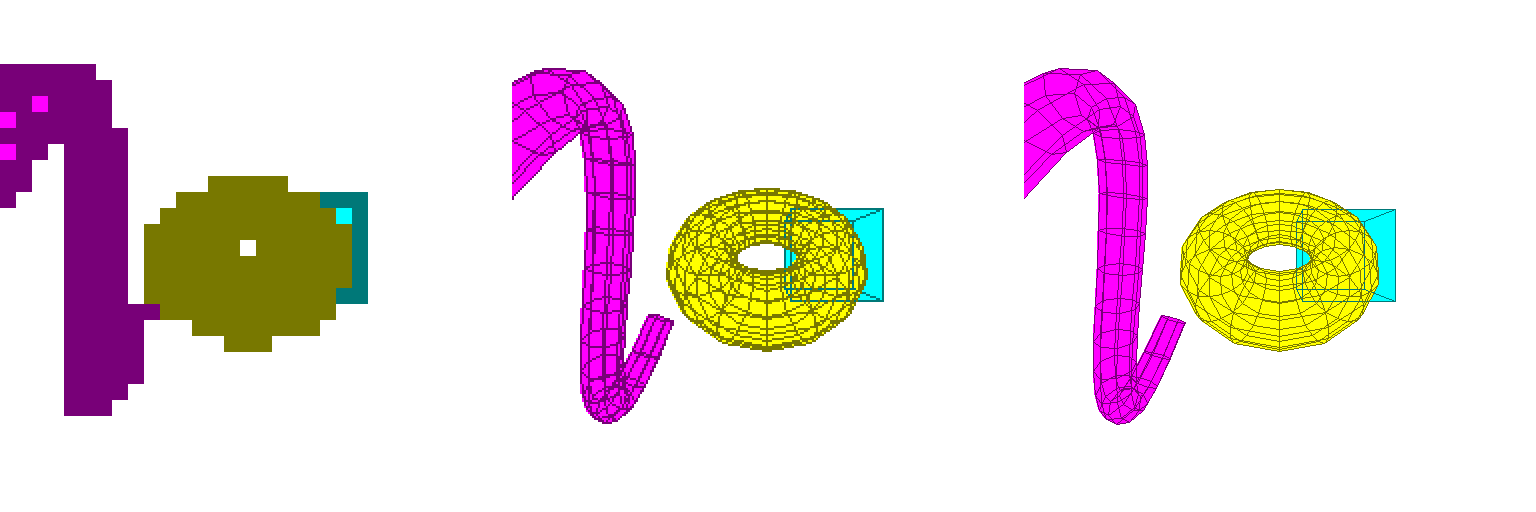
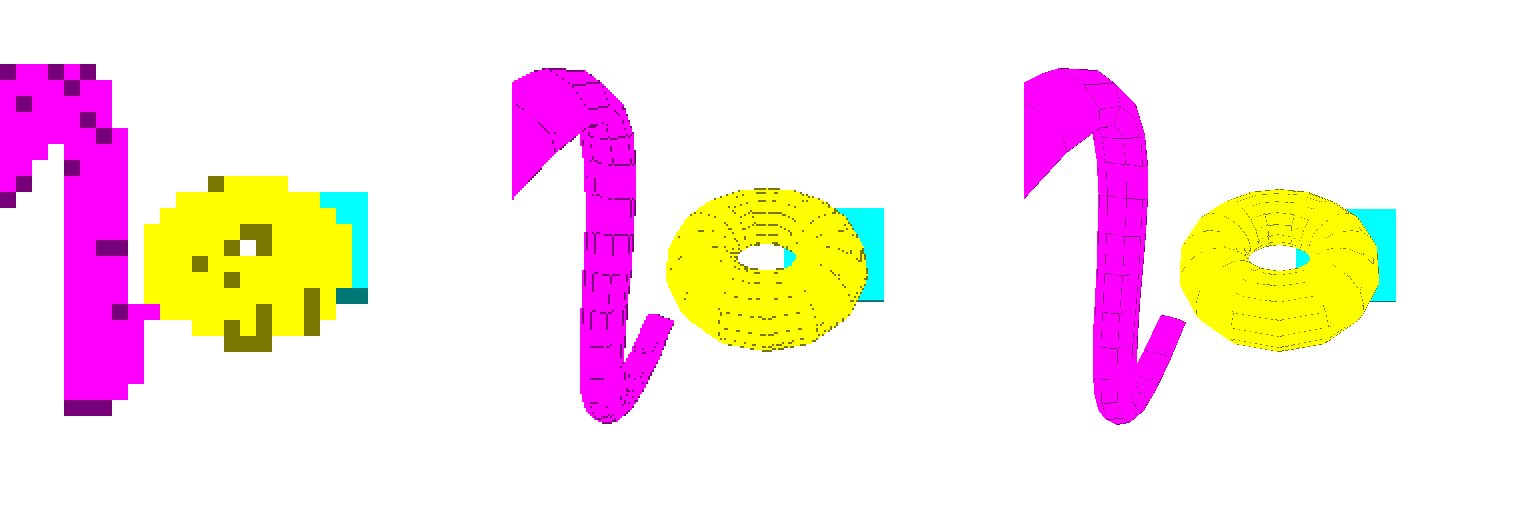
fixed mae é quente

diff --git a/src/q5.py b/src/q5.py
@@ -1,5 +1,5 @@
 from PIL import Image
-
+import math
 from common import *
 from q4 import *
 
@@ -8,39 +8,91 @@ def ndc_to_pixel(x, y, W, H):
     py = int((1 - (y + 1) * 0.5) * (H - 1))
     return px, py
 
+def draw_pixel(img, zbuffer, x, y, z, color):
+    W, H = img.size
+    if 0 <= x < W and 0 <= y < H:
+        if z < zbuffer[y][x]:
+            zbuffer[y][x] = z
+            img.putpixel((x, y), color)
+
 def edge_intersect(y, v1, v2):
     x1, y1 = v1
     x2, y2 = v2
-
     if y1 == y2:
-        return None  
-
+        return None
     if y < min(y1, y2) or y >= max(y1, y2):
         return None
-
     return x1 + (y - y1) * (x2 - x1) / (y2 - y1)
 
-def draw_edges(img, vertices, edges, edge_color):
+def rasterize_polygon_scanline(img, zbuffer, verts_2d, verts_3d, color):
     W, H = img.size
-    pixels = img.load()
+    verts_px = [ndc_to_pixel(x, y, W, H) for x, y in verts_2d]
+    ys = [v[1] for v in verts_px]
+    y_min = max(min(ys), 0)
+    y_max = min(max(ys), H - 1)
 
-    verts = [ndc_to_pixel(x, y, W, H) for x, y in vertices]
+    for y in range(y_min, y_max + 1):
+        inter = []
+        for i in range(len(verts_px)):
+            v1 = verts_px[i]
+            v2 = verts_px[(i + 1) % len(verts_px)]
+            x = edge_intersect(y, v1, v2)
+            if x is not None:
+                z1 = verts_3d[i][2]
+                z2 = verts_3d[(i + 1) % len(verts_px)][2]
+                t = (y - v1[1]) / (v2[1] - v1[1])
+                z = z1 + t * (z2 - z1)
+                inter.append((x, z))
+
+        inter.sort(key=lambda p: p[0])
+
+        for i in range(0, len(inter), 2):
+            if i + 1 >= len(inter):
+                break
+            x_start = int(max(inter[i][0], 0))
+            x_end = int(min(inter[i + 1][0], W - 1))
+            z_start = inter[i][1]
+            z_end = inter[i + 1][1]
+
+            for x in range(x_start, x_end + 1):
+                if x_end != x_start:
+                    t = (x - x_start) / (x_end - x_start)
+                else:
+                    t = 0
+                z = z_start + t * (z_end - z_start)
+                draw_pixel(img, zbuffer, x, y, z, color)
+
+def draw_edges(img, zbuffer, verts_2d, verts_3d, edges, color):
+    W, H = img.size
+    verts_px = [ndc_to_pixel(x, y, W, H) for x, y in verts_2d]
+    z_bias = 1e-1
 
     for a, b in edges:
-        x0, y0 = verts[a]
-        x1, y1 = verts[b]
+        x0, y0 = verts_px[a]
+        x1, y1 = verts_px[b]
+        z0 = verts_3d[a][2]
+        z1 = verts_3d[b][2]
 
         dx = abs(x1 - x0)
         dy = abs(y1 - y0)
         sx = 1 if x0 < x1 else -1
         sy = 1 if y0 < y1 else -1
         err = dx - dy
+        steps = max(dx, dy)
+        step = 0
 
         while True:
-            if 0 <= x0 < W and 0 <= y0 < H:
-                pixels[x0, y0] = edge_color
+            if steps > 0:
+                t = step / steps
+            else:
+                t = 0
+            z = z0 + t * (z1 - z0)
+
+            draw_pixel(img, zbuffer, x0, y0, z - z_bias, color)
+
             if x0 == x1 and y0 == y1:
                 break
+
             e2 = 2 * err
             if e2 > -dy:
                 err -= dy
@@ -49,94 +101,64 @@ def draw_edges(img, vertices, edges, edge_color):
                 err += dx
                 y0 += sy
 
+            step += 1
 
-def rasterize_polygon_scanline(img, vertices, fill_color):
-    W, H = img.size
-    pixels = img.load()
-
-    verts = [ndc_to_pixel(x, y, W, H) for x, y in vertices]
-    ys = [v[1] for v in verts]
-
-    y_min = max(min(ys), 0)
-    y_max = min(max(ys), H - 1)
-
-    for y in range(y_min, y_max + 1):
-        intersections = []
-
-        for i in range(len(verts)):
-            v1 = verts[i]
-            v2 = verts[(i + 1) % len(verts)]
-
-            x = edge_intersect(y, v1, v2)
-            if x is not None:
-                intersections.append(x)
-
-        intersections.sort()
-
-        
-        for i in range(0, len(intersections), 2):
-            if i + 1 >= len(intersections):
-                break
-
-            x_start = int(max(intersections[i], 0))
-            x_end   = int(min(intersections[i + 1], W - 1))
-
-            for x in range(x_start, x_end + 1):
-                pixels[x, y] = fill_color
-
-def raster_scene(resolution):
-    W = H = resolution
+def raster_scene(res):
+    W = H = res
     img = Image.new("RGB", (W, H), "white")
+    zbuffer = [[float("inf")] * W for _ in range(H)]
 
     cube_v, cube_e, cube_f, torus_v, torus_e, torus_f, pipe_v, pipe_e, pipe_f = get_polys()
     RT = perspective_matrix()
 
-    cube_v  = transform(cube_v, RT)
+    cube_v = transform(cube_v, RT)
     torus_v = transform(torus_v, RT)
-    pipe_v  = transform(pipe_v, RT)
+    pipe_v = transform(pipe_v, RT)
 
-    cube_2d  = project_vertices(cube_v)
+    cube_2d = project_vertices(cube_v)
     torus_2d = project_vertices(torus_v)
-    pipe_2d  = project_vertices(pipe_v)
+    pipe_2d = project_vertices(pipe_v)
 
-    
     for face in cube_f:
-        rasterize_polygon_scanline(img, [cube_2d[i] for i in face], (0, 255, 255))
-    for face in torus_f:
-        rasterize_polygon_scanline(img, [torus_2d[i] for i in face], (255, 255, 0))
-    for face in pipe_f:
-        rasterize_polygon_scanline(img, [pipe_2d[i] for i in face], (255, 0, 255))
+        rasterize_polygon_scanline(
+            img, zbuffer,
+            [cube_2d[i] for i in face],
+            [cube_v[i] for i in face],
+            (0, 255, 255)
+        )
 
-    
-    draw_edges(img, cube_2d, cube_e, (0, 120, 120))
-    draw_edges(img, torus_2d, torus_e, (120, 120, 0))
-    draw_edges(img, pipe_2d, pipe_e, (120, 0, 120))
+    for face in torus_f:
+        rasterize_polygon_scanline(
+            img, zbuffer,
+            [torus_2d[i] for i in face],
+            [torus_v[i] for i in face],
+            (255, 255, 0)
+        )
+
+    for face in pipe_f:
+        rasterize_polygon_scanline(
+            img, zbuffer,
+            [pipe_2d[i] for i in face],
+            [pipe_v[i] for i in face],
+            (255, 0, 255)
+        )
+
+    draw_edges(img, zbuffer, cube_2d, cube_v, cube_e, (0, 120, 120))
+    draw_edges(img, zbuffer, torus_2d, torus_v, torus_e, (120, 120, 0))
+    draw_edges(img, zbuffer, pipe_2d, pipe_v, pipe_e, (120, 0, 120))
 
     return img
 
 def plot_three_resolutions():
-    resolutions = [32, 256, 512]
-    images = []
+    sizes = [32, 256, 512]
+    images = [raster_scene(s) for s in sizes]
+    resized = [img.resize((512, 512), Image.NEAREST) for img in images]
 
-    for res in resolutions:
-        img = raster_scene(res)
-        images.append(img)
-
-    
-    max_size = 512
-    resized = [img.resize((max_size, max_size), Image.NEAREST) for img in images]
-
-    
-    final_img = Image.new(
-        "RGB",
-        (max_size * 3, max_size),
-        "white"
-    )
-
+    final = Image.new("RGB", (1536, 512), "white")
     for i, img in enumerate(resized):
-        final_img.paste(img, (i * max_size, 0))
+        final.paste(img, (i * 512, 0))
 
-    final_img.show()
-    final_img.save("raster_comparacao_resolucoes.png")
-    
+    final.show()
+    final.save("comparacao_resolucoes.png")
+
 plot_three_resolutions()
